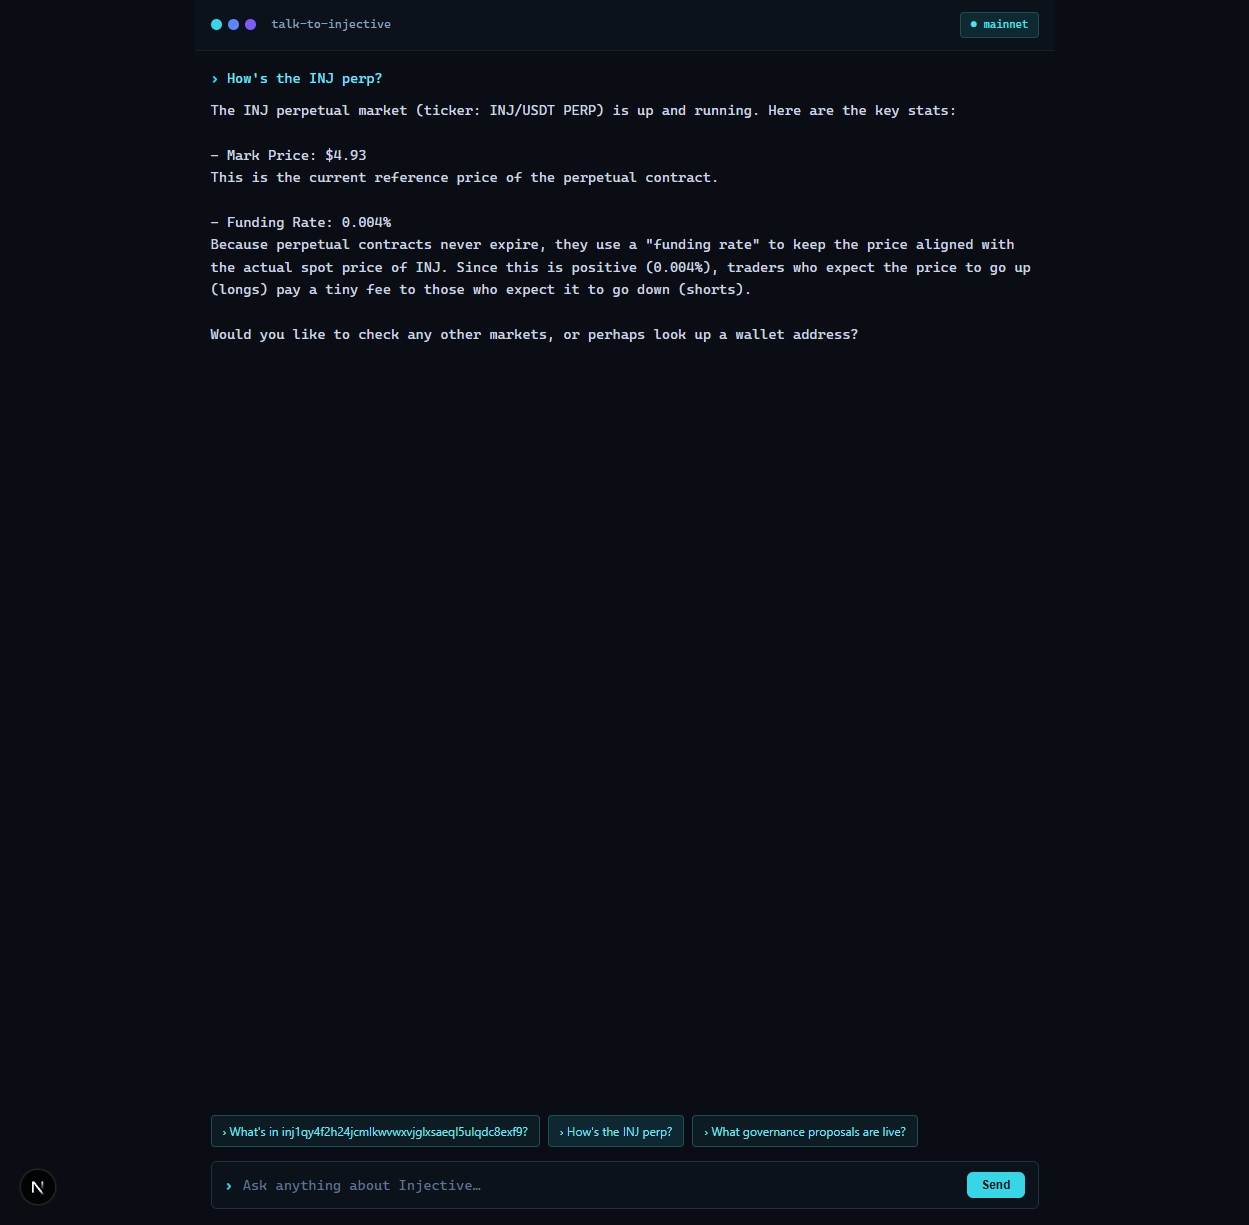
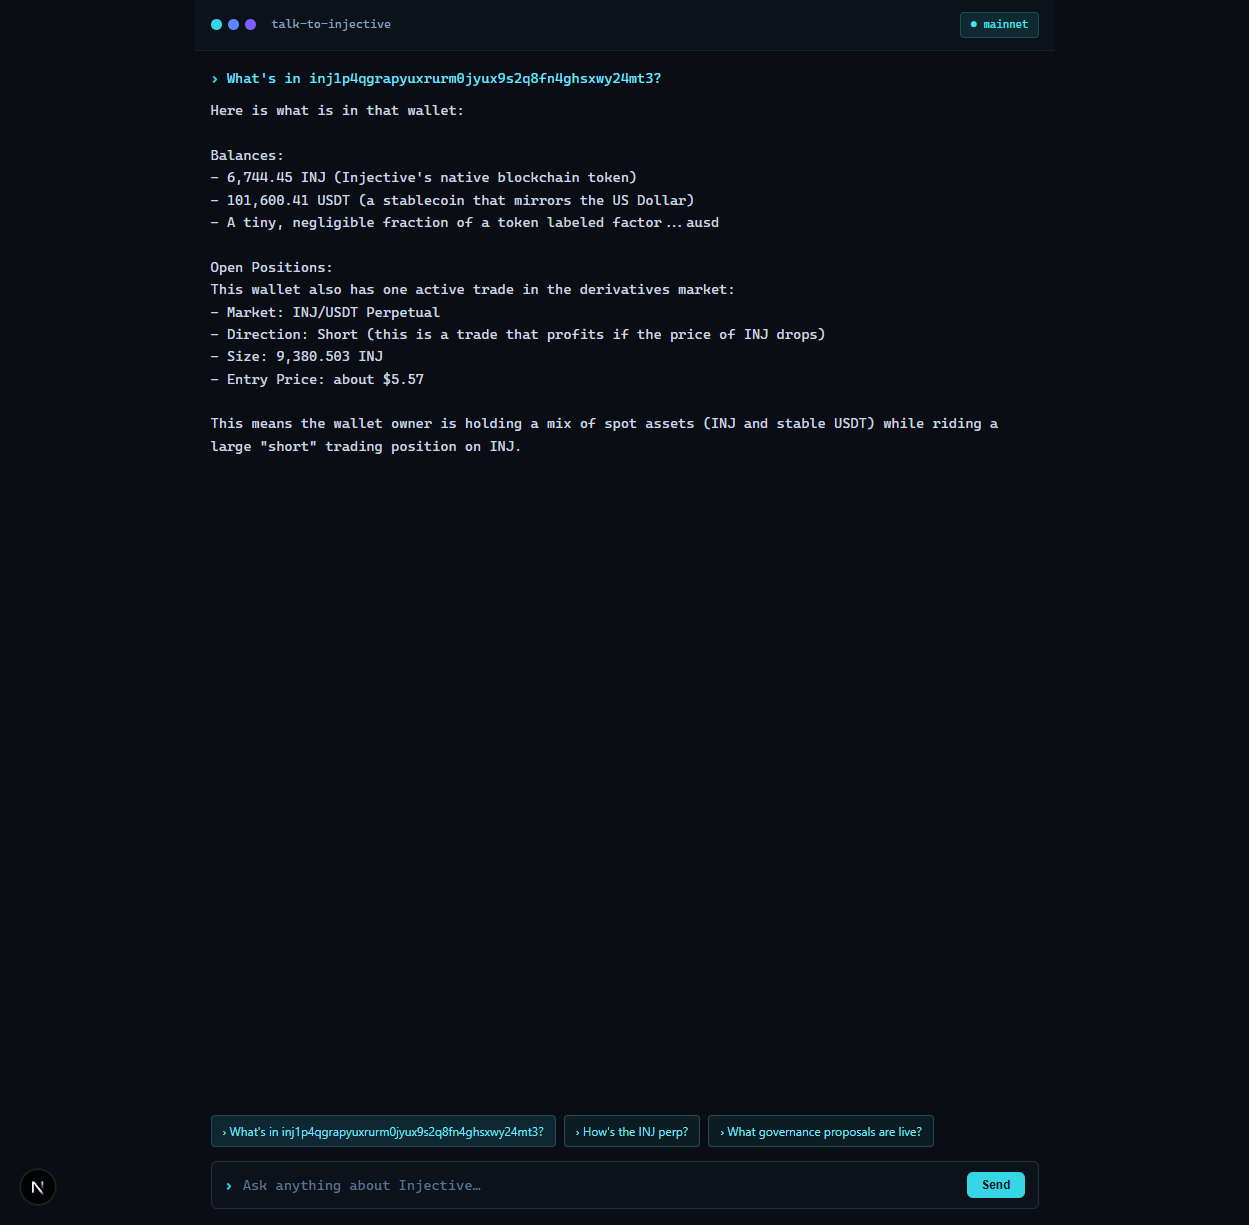
fix: richer demo wallet, stable test fallback, sig-fig funding rates

diff --git a/tests/portfolio.test.ts b/tests/portfolio.test.ts
@@ -3,19 +3,26 @@ import { getInjectiveAddress } from '@injectivelabs/sdk-ts';
 import { indexerDerivativesApi } from '../lib/injective/client';
 import { getPortfolioData } from '../lib/injective/portfolio';
 
-let realAddress: string | null = null;
+// A known funded mainnet wallet (real INJ + USDT) — stable fallback so the test
+// never fails spuriously when no live position can be derived at run time.
+const KNOWN_FUNDED = 'inj1p4qgrapyuxrurm0jyux9s2q8fn4ghsxwy24mt3';
+
+let realAddress: string = KNOWN_FUNDED;
 beforeAll(async () => {
-  // Find a real trader: take an open position on any market, derive its owner address.
-  const markets = (await indexerDerivativesApi.fetchMarkets()) as any[];
-  const inj = markets.find((m) => /INJ\/USDT/i.test(m.ticker));
-  const pos = await indexerDerivativesApi.fetchPositions({ marketId: inj.marketId });
-  const subaccountId = (pos as any).positions?.[0]?.subaccountId as string | undefined;
-  if (subaccountId) realAddress = getInjectiveAddress(subaccountId.slice(0, 42));
+  // Prefer a freshly-derived real trader; fall back to the known funded wallet.
+  try {
+    const markets = (await indexerDerivativesApi.fetchMarkets()) as any[];
+    const inj = markets.find((m) => /INJ\/USDT/i.test(m.ticker));
+    const pos = await indexerDerivativesApi.fetchPositions({ marketId: inj.marketId });
+    const subaccountId = (pos as any).positions?.[0]?.subaccountId as string | undefined;
+    if (subaccountId) realAddress = getInjectiveAddress(subaccountId.slice(0, 42));
+  } catch {
+    // keep the known funded fallback
+  }
 }, 30000);
 
 describe('getPortfolioData (mainnet, read-only)', () => {
   it('returns a valid shape for a real funded address', async () => {
-    if (!realAddress) throw new Error('could not derive a real address from chain');
     const p = await getPortfolioData(realAddress);
     expect(p.valid).toBe(true);
     expect(Array.isArray(p.balances)).toBe(true);

diff --git a/lib/injective/format.ts b/lib/injective/format.ts
@@ -24,7 +24,9 @@ export function formatTokenAmount(rawAmount: string, decimals: number): number {
   return Number(rawAmount) / 10 ** decimals;
 }
 
-export function formatPercent(fraction: number, maxFractionDigits = 3): string {
+export function formatPercent(fraction: number, sigFigs = 2): string {
   const pct = fraction * 100;
-  return `${Number(pct.toFixed(maxFractionDigits))}%`;
+  if (pct === 0) return '0%';
+  // Significant figures, so tiny funding rates (e.g. 0.0004%) don't collapse to "0%".
+  return `${Number(pct.toPrecision(sigFigs))}%`;
 }

diff --git a/app/page.tsx b/app/page.tsx
@@ -4,8 +4,8 @@ import { useChat } from '@ai-sdk/react';
 import { DefaultChatTransport } from 'ai';
 import { useState } from 'react';
 
-// A real, funded mainnet address (has an open INJ/USDT PERP position) for the demo chip.
-const DEMO_ADDRESS = 'inj1qy4f2h24jcmlkwvwxvjglxsaeql5ulqdc8exf9';
+// A real, funded mainnet address (holds INJ + USDT and an open position) for the demo chip.
+const DEMO_ADDRESS = 'inj1p4qgrapyuxrurm0jyux9s2q8fn4ghsxwy24mt3';
 const SUGGESTIONS = [
   `What's in ${DEMO_ADDRESS}?`,
   "How's the INJ perp?",
